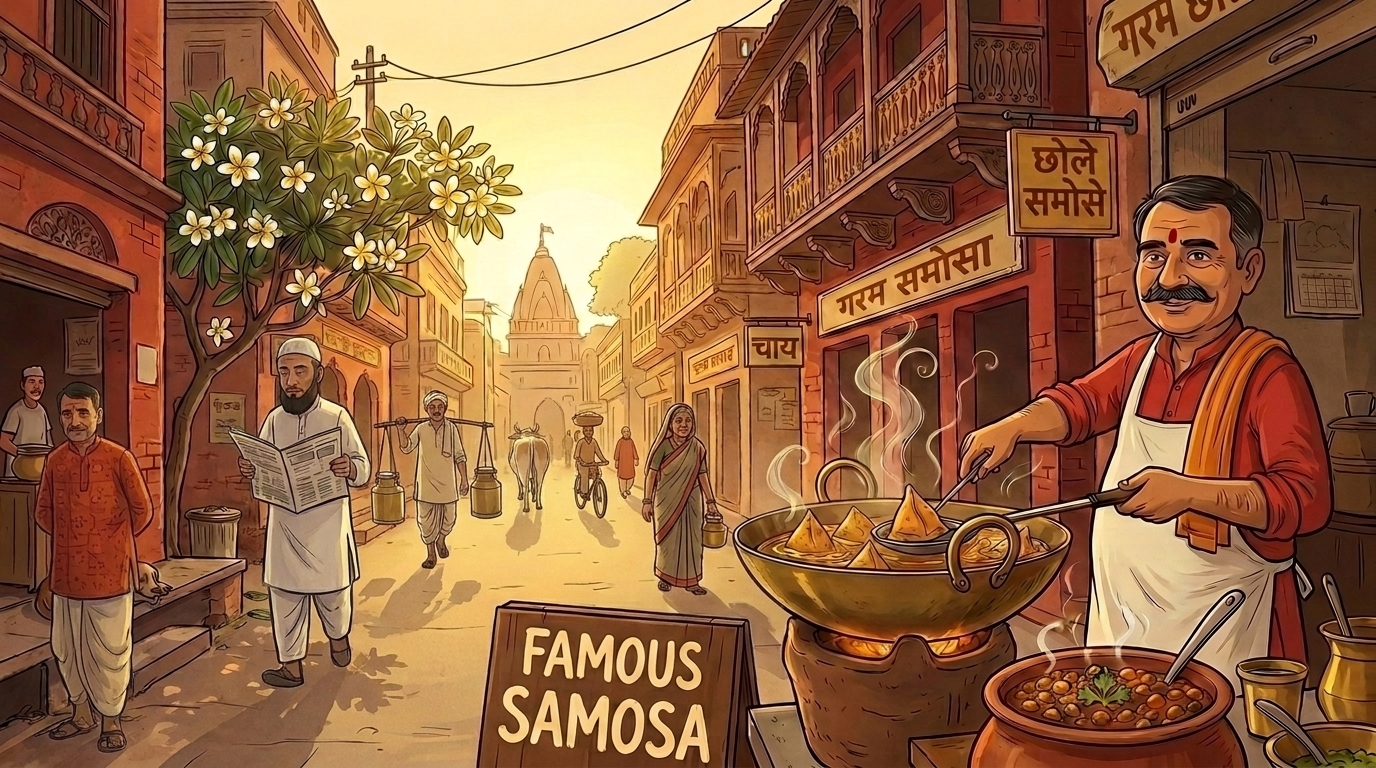
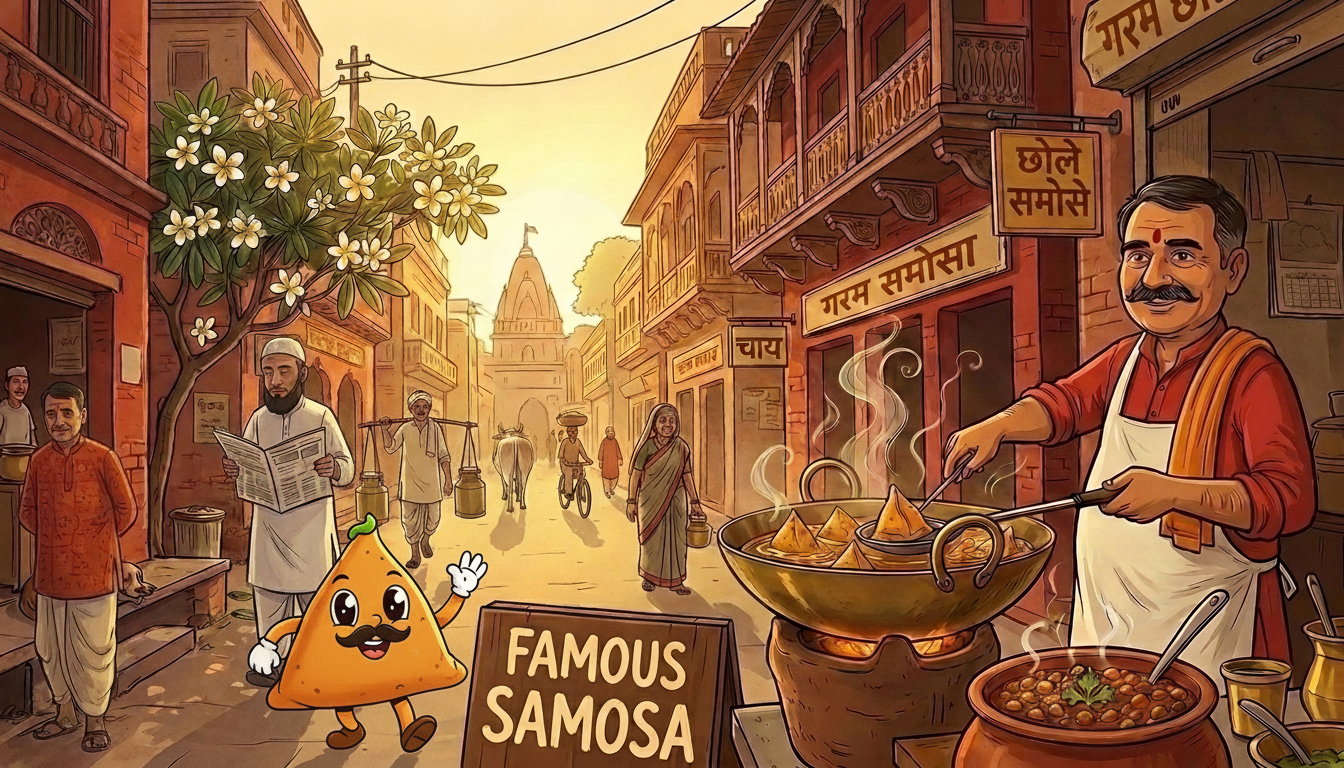
Add mascot samosa to hero + Mishraji scenes, jaali cloth, softer copy
Hero (01-hero-gully-dawn.png): mascot samosa walks into the UP gully scene
alongside the humans — mustache, big cartoon eyes, small arms and legs mid-
stride, one hand waving. The gully scene picks up richer UP-dhaba signage
in the process (चाय / गरम समोसा / छोले समोसे painted plaques on the shops).

Mishraji (07-mishra-ji-portrait.png): small mascot samosa character now
stands on the counter beside dad. Wooden hand-painted "मिश्रा जी के समोसे"
signboard on the wall. The wire-mesh basket is replaced with a soft white
cotton cloth over the samosa pile — the traditional UP halwai fly-cover.
Shiva portrait with marigold garland and roaring flames under the kadai
preserved.

Mishraji copy: opened with "Every UP city has a Mishraji. Ours has been..."
so the frame is heritage not singular-hero. Second para acknowledges he's
"not the only halwai who taught this dish" but is the one who taught us.

Cache-buster bumps: hero ?v=7, portrait ?v=3.

diff --git a/index.html b/index.html
@@ -35,7 +35,7 @@
   </nav>
 
   <section id="hero" class="hero">
-    <div class="hero__bg" style="background-image: url('assets/01-hero-gully-dawn.png?v=6')"></div>
+    <div class="hero__bg" style="background-image: url('assets/01-hero-gully-dawn.png?v=7')"></div>
     <div class="hero__overlay"></div>
     <div class="hero__content">
       <h1 class="hero__title">The chole samosa<br/>North India<br/>wakes up to.</h1>
@@ -177,15 +177,15 @@
 
   <section id="mishra" class="mishra">
     <div class="mishra__portrait">
-      <img src="assets/07-mishra-ji-portrait.png?v=2" alt="Mishra Ji" loading="lazy" />
+      <img src="assets/07-mishra-ji-portrait.png?v=3" alt="Mishra Ji" loading="lazy" />
     </div>
     <div class="mishra__text">
       <p class="section__kicker">Meet Mishraji</p>
       <h2 class="section__title">The man behind<br/><span class="italic">the kadhai.</span></h2>
 
-      <p class="mishra__body">He's been frying samosas in a Prayagraj gully since before most of us were born. Same brass <em>kadhai.</em> Same faded kurta. Same tilak on the forehead. His hands know the exact snap of a well-fried shell. His chole simmers slow from 5 AM.</p>
+      <p class="mishra__body">Every UP city has a Mishraji. Ours has been frying samosas in a Prayagraj gully since before most of us were born. Same brass <em>kadhai.</em> Same faded kurta. Same tilak on the forehead. His chole simmers slow from 5 AM.</p>
 
-      <p class="mishra__body">Every UP city has a Mishraji. This one taught us. His masala, his method, his one rule.<br/><strong>Fresh-fried or nothing.</strong></p>
+      <p class="mishra__body">He's not the only halwai who taught this dish. He's the one who taught us. The masala, the method, the one rule we haven't broken.<br/><strong>Fresh-fried or nothing.</strong></p>
 
       <div class="mishra__founder">
         <p class="mishra__quote">"I looked for his chole samosa when I moved to Mumbai. Never found it. So we're bringing his kitchen here."</p>